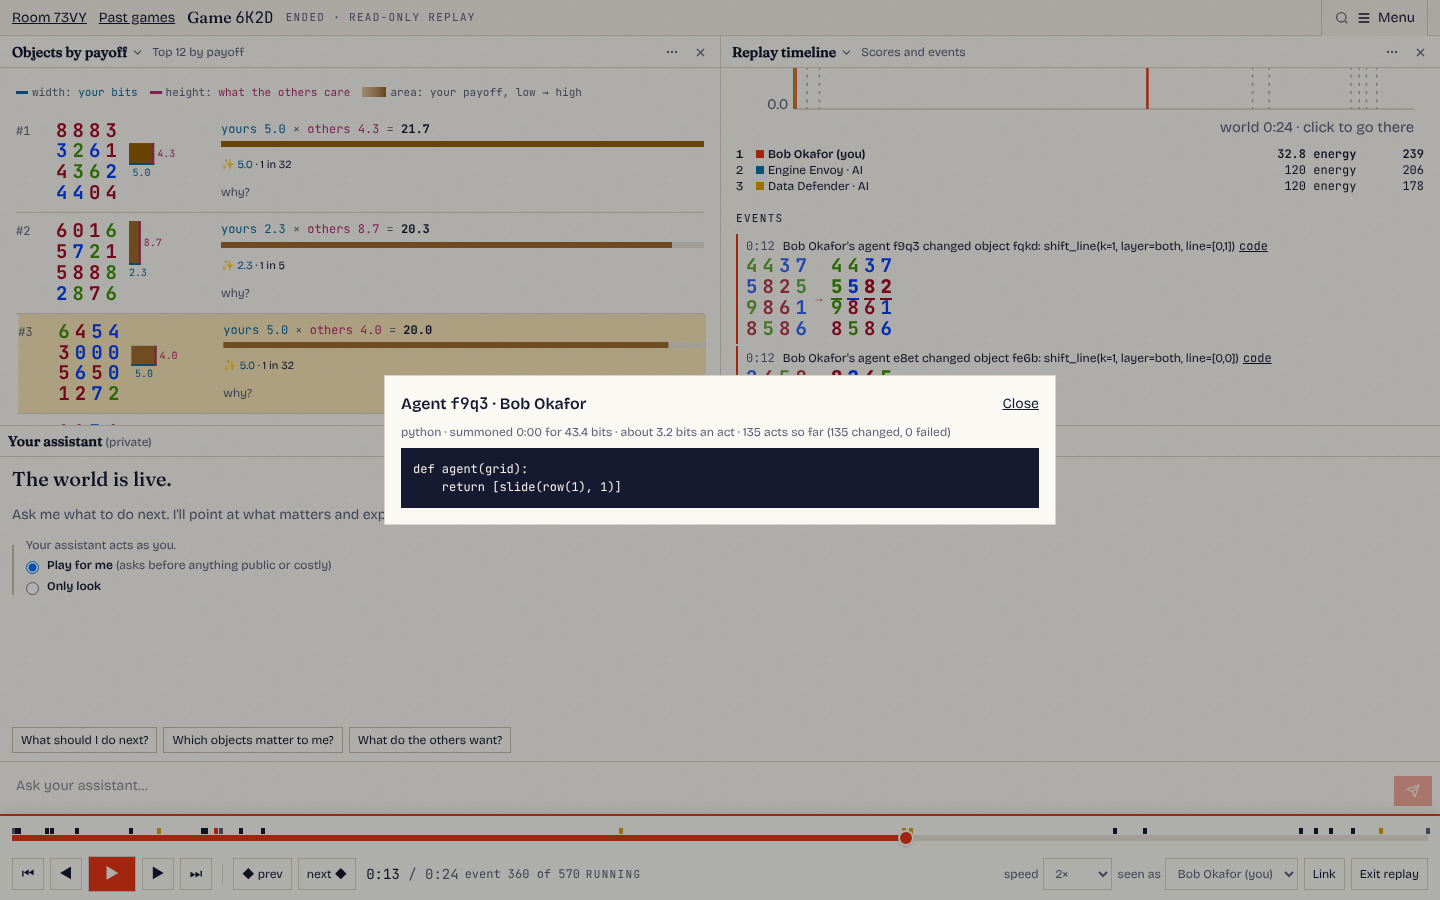
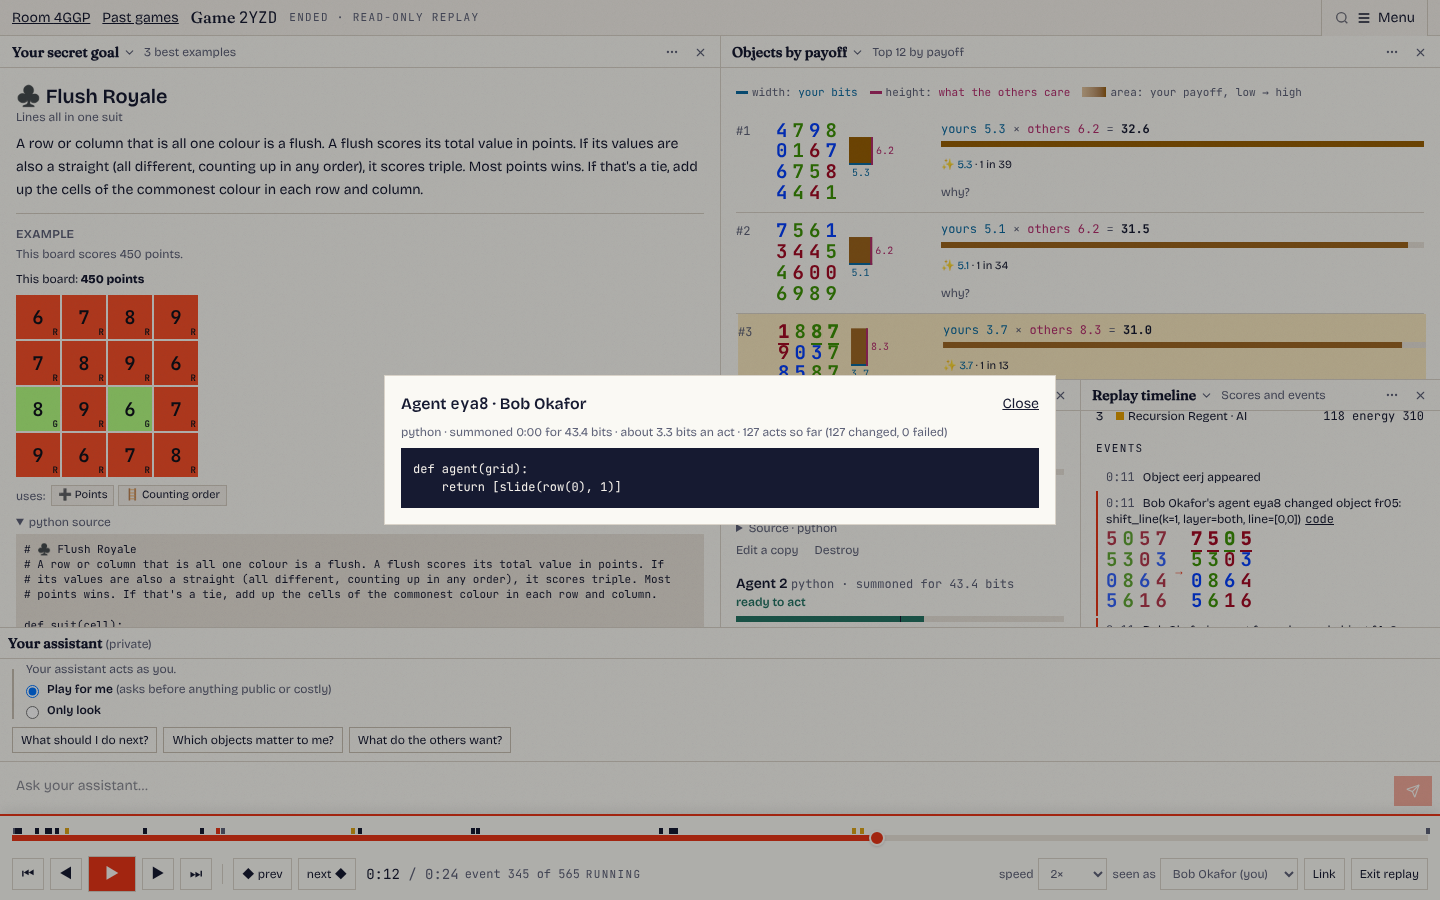
Dock: the client's phase-following uses followPhase (the first panel nobody chose); refreshed replay screenshots
effectiveLayout duplicated followPhase's old rule, so in the default dock the
objects pane never became the results at a game's end, and in a replay it did
not come back from the results when scrubbing back.

Claude-Session: https://claude.ai/code/session_0119hWTWwxtQFjeiW4h5MgCd

diff --git a/artifacts/player-web/test/layout-sync.test.ts b/artifacts/player-web/test/layout-sync.test.ts
@@ -6,7 +6,7 @@
  */
 import test from "node:test";
 import assert from "node:assert/strict";
-import { assistantSide, panelPanesOf, movePane, openPane, parseLayout, setPanePanel, setPaneParams, type DockLayout } from "@workspace/player-client/layout";
+import { DEFAULT_LAYOUT, assistantSide, panelPanesOf, movePane, openPane, parseLayout, setPanePanel, setPaneParams, type DockLayout } from "@workspace/player-client/layout";
 import { SINGLE_LAYOUT } from "./single-layout.ts";
 import {
   effectiveLayout, initialSync, pushPlan, sameLayout, syncReducer, type SyncState,
@@ -94,7 +94,7 @@ test("a read-only sync (safe mode) applies server layouts and never pushes", () 
   assert.equal(pushPlan(s), null);
 });
 
-test("panel 1 follows the phase only while nobody chose its panel", () => {
+test("the first panel nobody chose follows the phase", () => {
   const ended = effectiveLayout(base, "ended");
   assert.equal(ended.panes.p1.kind === "panel" && ended.panes.p1.panelId, "results");
   assert.equal(effectiveLayout(base, "running"), base, "unchanged when it already shows the phase's panel");
@@ -104,7 +104,14 @@ test("panel 1 follows the phase only while nobody chose its panel", () => {
   assert.equal(effectiveLayout(assisted, "ended"), assisted);
   const second = setPanePanel(openPane(chosen, { id: "", kind: "panel", panelId: "overview", params: {}, setBy: "default" }).layout, "p1", "race", "human");
   const p3 = effectiveLayout(second, "ended").panes.p3;
-  assert.equal(p3.kind === "panel" && p3.panelId, "overview", "only the first built-in panel follows");
+  assert.equal(p3.kind === "panel" && p3.panelId, "results", "the first panel nobody chose follows, wherever it is");
+  const both = setPanePanel(openPane(base, { id: "", kind: "panel", panelId: "overview", params: {}, setBy: "default" }).layout, "p1", "objects", "default");
+  const followed = effectiveLayout(both, "ended");
+  assert.deepEqual(panelPanesOf(followed).map(p => p.kind === "panel" && p.panelId), ["results", "overview"], "only the first of them");
+  // The default dock (the goal card is the player's): objects become the results at the end, and back in a replay.
+  const dock = DEFAULT_LAYOUT("running");
+  assert.deepEqual(panelPanesOf(effectiveLayout(dock, "ended")).map(p => p.kind === "panel" && p.panelId), ["my-card", "results", "agents"]);
+  assert.deepEqual(panelPanesOf(effectiveLayout(effectiveLayout(dock, "ended"), "running")).map(p => p.kind === "panel" && p.panelId), ["my-card", "objects", "agents"]);
 });
 
 test("sameLayout ignores sub-pixel size drift but not structure, panels or a real resize", () => {

diff --git a/artifacts/player-web/src/dock/layout-sync.ts b/artifacts/player-web/src/dock/layout-sync.ts
@@ -9,8 +9,8 @@
  *   - CONFLICT (the row moved in the meantime) adopts the server's version; another failure keeps the edit and retries.
  *   - Nothing is pushed before the first server layout arrives, or ever in a read-only (safe-mode) dock.
  */
-import { defaultPanelFor, defaultPanelParams, type Phase } from "@workspace/player-client/panels";
-import { panelPanesOf, type DockLayout, type Node } from "@workspace/player-client/layout";
+import type { Phase } from "@workspace/player-client/panels";
+import { followPhase, type DockLayout, type Node } from "@workspace/player-client/layout";
 
 export const PUSH_DELAY_MS = 800;
 /** A discrete action (menu, palette): pushed almost at once, coalescing a burst. */
@@ -87,14 +87,11 @@ export function pushPlan(state: SyncState): { layout: DockLayout; ifUpdatedAt: n
 }
 
 /**
- * The layout as shown in a phase: the first built-in panel follows the phase's default while nobody (human or
- * assistant) chose its panel. The same object when nothing changes.
+ * The layout as shown in a phase: the first panel nobody (human or assistant) chose follows the phase's default
+ * (`followPhase`, the same rule the engine's parse applies). The same object when nothing changes.
  */
 export function effectiveLayout(layout: DockLayout, phase: Phase): DockLayout {
-  const first = panelPanesOf(layout)[0];
-  const panelId = defaultPanelFor(phase);
-  if (!first || first.setBy !== "default" || first.panelId === panelId) return layout;
-  return { ...layout, panes: { ...layout.panes, [first.id]: { ...first, panelId, params: defaultPanelParams(panelId) ?? {} } } };
+  return followPhase(layout, phase);
 }
 
 /** A stable JSON text (sorted keys), for comparing panes. */
